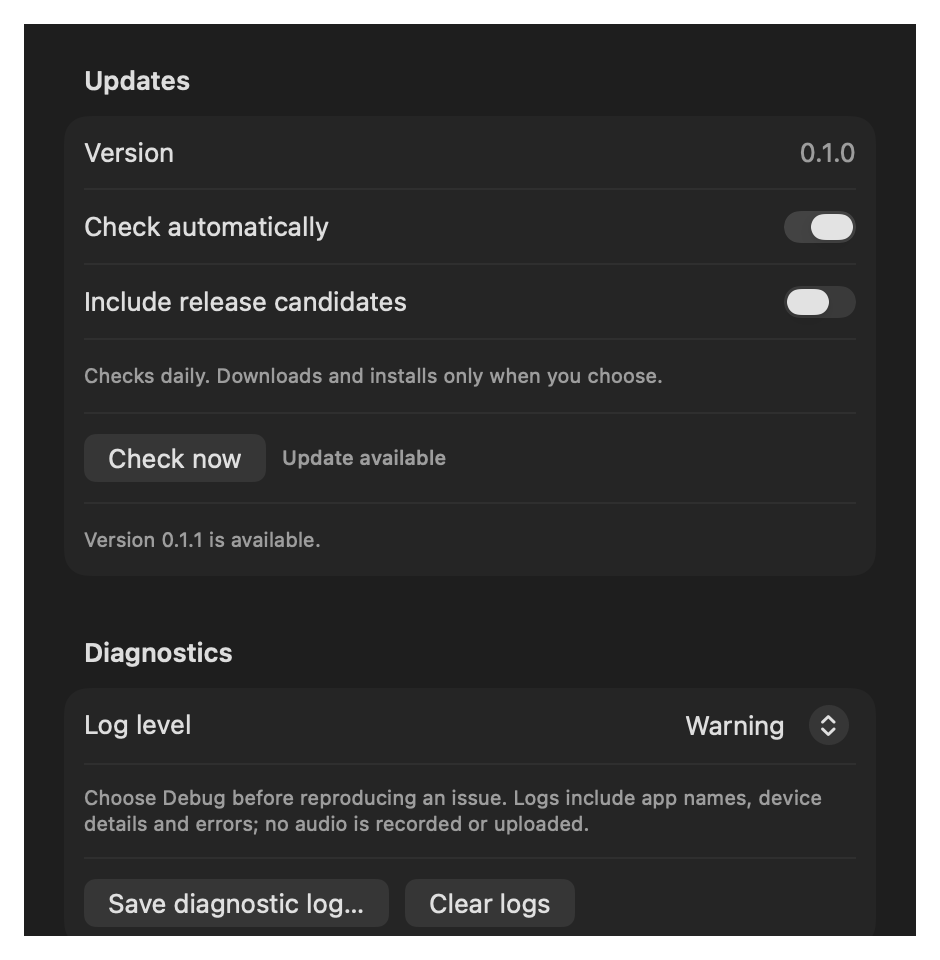
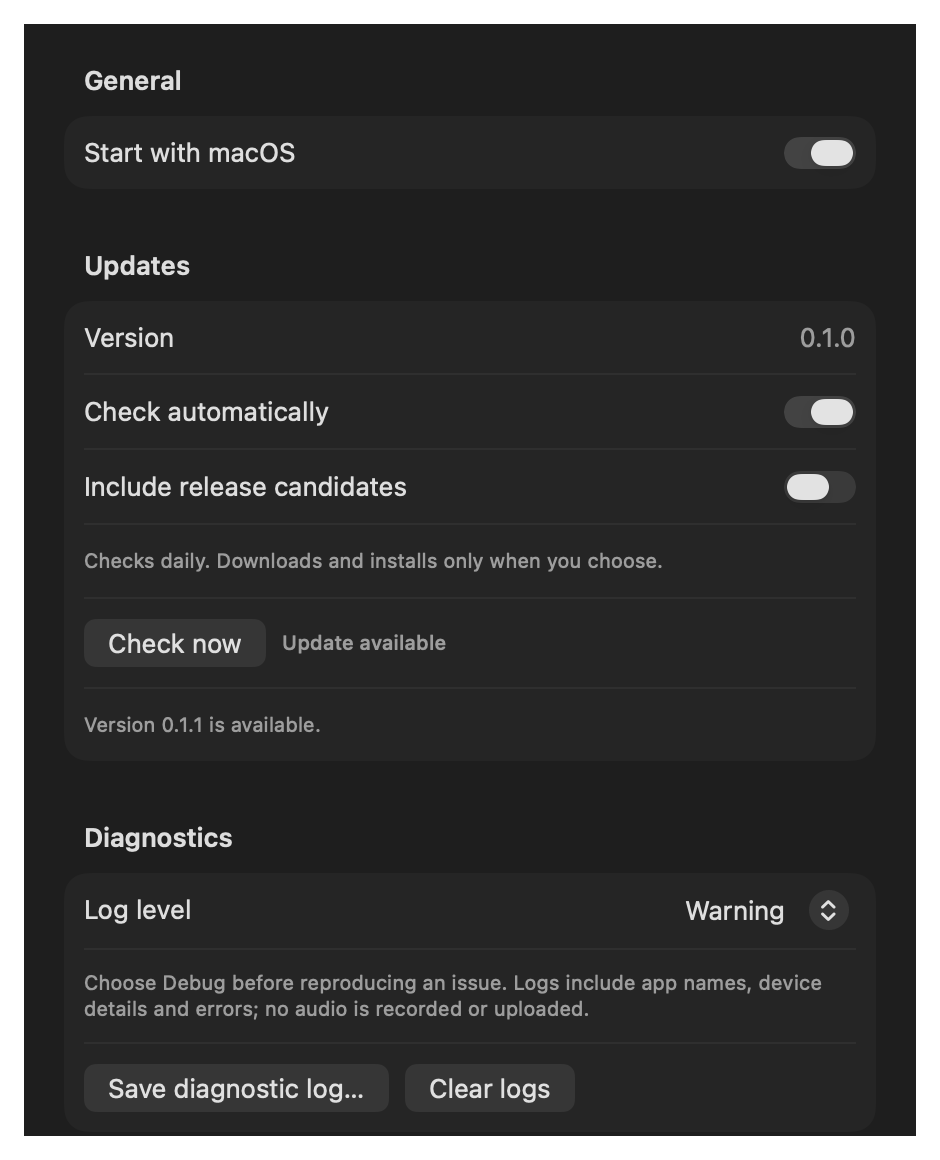
Add native start with macOS setting enabled by default

diff --git a/QEQ/App/Sources/SettingsView.swift b/QEQ/App/Sources/SettingsView.swift
@@ -5,20 +5,36 @@ import UniformTypeIdentifiers
 
 struct SettingsView: View {
     @ObservedObject var updates: UpdateStore
+    @ObservedObject var loginItem: LoginItemStore
     let diagnostics: () -> String
     let preview: Bool
     @State private var logLevel: LogLevel
     @State private var collecting = false
     @State private var logMessage = ""
 
-    init(updates: UpdateStore, preview: Bool = false, diagnostics: @escaping () -> String) {
+    init(updates: UpdateStore, loginItem: LoginItemStore, preview: Bool = false, diagnostics: @escaping () -> String) {
         self.updates = updates
+        self.loginItem = loginItem
         self.preview = preview
         self.diagnostics = diagnostics
         _logLevel = State(initialValue: preview ? .warning : AppLog.shared.level)
     }
     var body: some View {
         Form {
+            Section("General") {
+                Toggle(
+                    "Start with macOS",
+                    isOn: Binding(
+                        get: { loginItem.enabled }, set: { loginItem.setEnabled($0) }))
+                if loginItem.requiresApproval {
+                    Text("Allow QEQ in Login Items to start automatically.")
+                        .font(.caption).foregroundStyle(.secondary)
+                    Button("Open Login Items…") { loginItem.openSystemSettings() }
+                }
+                if let error = loginItem.error {
+                    Text(error).font(.caption).foregroundStyle(.secondary)
+                }
+            }
             Section("Updates") {
                 LabeledContent("Version", value: updates.currentVersion)
                 Toggle(
@@ -79,7 +95,11 @@ struct SettingsView: View {
                     Text(logMessage).font(.caption).foregroundStyle(.secondary).textSelection(.enabled)
                 }
             }
-        }.formStyle(.grouped).padding(12).frame(width: 470, height: 480)
+        }.formStyle(.grouped).padding(12).frame(width: 470, height: 580)
+            .onAppear { loginItem.refresh() }
+            .onReceive(NotificationCenter.default.publisher(for: NSApplication.didBecomeActiveNotification)) { _ in
+                loginItem.refresh()
+            }
     }
     private func collect() {
         guard !preview else { return }
@@ -87,7 +107,7 @@ struct SettingsView: View {
         logMessage = ""
         let snapshot =
             diagnostics()
-            + "\nUpdates: automatic=\(updates.automatic), includeRC=\(updates.includeRC)\nLog level: \(logLevel.rawValue)"
+            + "\nStart with macOS: \(loginItem.status.rawValue)\nUpdates: automatic=\(updates.automatic), includeRC=\(updates.includeRC)\nLog level: \(logLevel.rawValue)"
         Task { @MainActor in
             defer { collecting = false }
             do {
@@ -109,14 +129,14 @@ struct SettingsView: View {
 @MainActor
 final class SettingsWindowController {
     private let controller: NSWindowController
-    init(updates: UpdateStore, diagnostics: @escaping () -> String) {
+    init(updates: UpdateStore, loginItem: LoginItemStore, diagnostics: @escaping () -> String) {
         let window = NSWindow(
-            contentRect: NSRect(x: 0, y: 0, width: 470, height: 480),
+            contentRect: NSRect(x: 0, y: 0, width: 470, height: 580),
             styleMask: [.titled, .closable], backing: .buffered, defer: false)
         window.title = "Settings"
         window.isReleasedWhenClosed = false
         window.contentViewController = NSHostingController(
-            rootView: SettingsView(updates: updates, diagnostics: diagnostics))
+            rootView: SettingsView(updates: updates, loginItem: loginItem, diagnostics: diagnostics))
         window.center()
         controller = NSWindowController(window: window)
     }

diff --git a/QEQ/Sources/QEQAppSupport/LoginItemStore.swift b/QEQ/Sources/QEQAppSupport/LoginItemStore.swift
@@ -1,0 +1,61 @@
+import Combine
+import Foundation
+import ServiceManagement
+
+/// macOS owns the actual state. Apply the default once, never overriding a later
+/// change made in QEQ or System Settings.
+@MainActor
+public final class LoginItemStore: ObservableObject {
+    @Published public private(set) var status: SMAppService.Status
+    @Published public private(set) var error: String?
+    public var enabled: Bool { status == .enabled || status == .requiresApproval }
+    public var requiresApproval: Bool { status == .requiresApproval }
+    private let defaults: UserDefaults?
+    private let readStatus: () -> SMAppService.Status
+    private let register: () throws -> Void
+    private let unregister: () throws -> Void
+    private static let initializedKey = "loginItem.initialized"
+
+    public init(
+        defaults: UserDefaults? = .standard,
+        readStatus: @escaping () -> SMAppService.Status = { SMAppService.mainApp.status },
+        register: @escaping () throws -> Void = { try SMAppService.mainApp.register() },
+        unregister: @escaping () throws -> Void = { try SMAppService.mainApp.unregister() }
+    ) {
+        self.defaults = defaults
+        self.readStatus = readStatus
+        self.register = register
+        self.unregister = unregister
+        status = readStatus()
+    }
+
+    public static func preview() -> LoginItemStore {
+        LoginItemStore(defaults: nil, readStatus: { .enabled }, register: {}, unregister: {})
+    }
+
+    public func start() {
+        refresh()
+        guard let defaults, !defaults.bool(forKey: Self.initializedKey) else { return }
+        // Mark before attempting registration so failures/denials do not prompt
+        // again on every launch. The toggle allows an explicit retry.
+        defaults.set(true, forKey: Self.initializedKey)
+        if status == .notRegistered { setEnabled(true) }
+    }
+
+    public func refresh() { status = readStatus() }
+
+    public func setEnabled(_ value: Bool) {
+        defaults?.set(true, forKey: Self.initializedKey)
+        error = nil
+        refresh()
+        do {
+            if value && !enabled { try register() }
+            if !value && enabled { try unregister() }
+        } catch {
+            self.error = "Couldn’t change startup: \(error.localizedDescription)"
+        }
+        refresh()
+    }
+
+    public func openSystemSettings() { SMAppService.openSystemSettingsLoginItems() }
+}

diff --git a/QEQ/Tests/QEQTests/LoginItemTests.swift b/QEQ/Tests/QEQTests/LoginItemTests.swift
@@ -1,0 +1,60 @@
+import Foundation
+import ServiceManagement
+import Testing
+
+@testable import QEQAppSupport
+
+@Test @MainActor func loginDefaultAppliesOnceAndRespectsSystemChanges() {
+    let name = "QEQ.login.tests.\(UUID().uuidString)"
+    let defaults = UserDefaults(suiteName: name)!
+    defer { defaults.removePersistentDomain(forName: name) }
+    var status = SMAppService.Status.notRegistered
+    var registrations = 0
+    let store = LoginItemStore(
+        defaults: defaults, readStatus: { status },
+        register: {
+            registrations += 1
+            status = .enabled
+        },
+        unregister: { status = .notRegistered })
+    store.start()
+    #expect(store.enabled && registrations == 1)
+    store.setEnabled(false)
+    store.start()
+    #expect(!store.enabled && registrations == 1)
+    store.setEnabled(true)
+    #expect(store.enabled && registrations == 2)
+    // A user disables it externally; relaunch must not re-register it.
+    status = .notRegistered
+    let relaunched = LoginItemStore(
+        defaults: defaults, readStatus: { status },
+        register: { registrations += 1 }, unregister: {})
+    relaunched.start()
+    #expect(!relaunched.enabled && registrations == 2)
+}
+
+@Test @MainActor func loginApprovalAndFailureReflectActualSystemState() {
+    let name = "QEQ.login.tests.\(UUID().uuidString)"
+    let defaults = UserDefaults(suiteName: name)!
+    defer { defaults.removePersistentDomain(forName: name) }
+    var status = SMAppService.Status.requiresApproval
+    var attempts = 0
+    let store = LoginItemStore(
+        defaults: defaults, readStatus: { status },
+        register: {
+            attempts += 1
+            throw CocoaError(.fileWriteNoPermission)
+        },
+        unregister: { status = .notRegistered })
+    store.start()
+    #expect(store.enabled && store.requiresApproval && attempts == 0)
+    store.setEnabled(false)
+    #expect(!store.enabled)
+    store.setEnabled(true)
+    #expect(!store.enabled && store.error != nil && attempts == 1)
+    store.start()
+    #expect(attempts == 1)
+    status = .enabled
+    store.refresh()
+    #expect(store.enabled && !store.requiresApproval)
+}

diff --git a/QEQ/App/Sources/ScreenshotRenderer.swift b/QEQ/App/Sources/ScreenshotRenderer.swift
@@ -165,9 +165,9 @@ struct ScreenshotRenderer {
     }
     private static func renderSettings(to directory: URL, appearance: NSAppearance?, updates: UpdateStore) throws {
         let host = NSHostingController(
-            rootView: SettingsView(updates: updates, preview: true) { "Fixture diagnostics" })
+            rootView: SettingsView(updates: updates, loginItem: .preview(), preview: true) { "Fixture diagnostics" })
         let window = NSWindow(
-            contentRect: NSRect(x: -8000, y: 0, width: 470, height: 480),
+            contentRect: NSRect(x: -8000, y: 0, width: 470, height: 580),
             styleMask: .borderless, backing: .buffered, defer: false)
         window.appearance = appearance
         window.contentViewController = host
@@ -180,14 +180,14 @@ struct ScreenshotRenderer {
             CATransaction.flush()
         }
         let bitmap = NSBitmapImageRep(
-            bitmapDataPlanes: nil, pixelsWide: 940, pixelsHigh: 960,
+            bitmapDataPlanes: nil, pixelsWide: 940, pixelsHigh: 1160,
             bitsPerSample: 8, samplesPerPixel: 4, hasAlpha: true, isPlanar: false, colorSpaceName: .deviceRGB,
             bytesPerRow: 0, bitsPerPixel: 0)!
-        bitmap.size = NSSize(width: 470, height: 480)
+        bitmap.size = NSSize(width: 470, height: 580)
         host.view.cacheDisplay(in: host.view.bounds, to: bitmap)
         try bitmap.representation(using: .png, properties: [:])!.write(
             to: directory.appendingPathComponent("settings.png"))
-        print("settings: 470 × 480 pt")
+        print("settings: 470 × 580 pt")
     }
 
 }

diff --git a/QEQ/App/Sources/App.swift b/QEQ/App/Sources/App.swift
@@ -179,8 +179,9 @@ final class AppDelegate: NSObject, NSApplicationDelegate, NSPopoverDelegate {
         distribution: Bundle.main.object(forInfoDictionaryKey: "QEQBuildChannel") as? String == "release",
         defaults: CommandLine.arguments.contains("--render-screenshots") ? nil : .standard,
         logger: CommandLine.arguments.contains("--render-screenshots") ? nil : .shared)
+    private lazy var loginItem = LoginItemStore()
     private lazy var installer = UpdateInstaller(store: updates)
-    private lazy var settingsWindow = SettingsWindowController(updates: updates) { [weak self] in
+    private lazy var settingsWindow = SettingsWindowController(updates: updates, loginItem: loginItem) { [weak self] in
         self?.model.diagnosticReport ?? "QEQ is not running."
     }
     private var item: NSStatusItem!
@@ -213,6 +214,7 @@ final class AppDelegate: NSObject, NSApplicationDelegate, NSPopoverDelegate {
         AppLog.shared.write(.info, "QEQ started, version \(updates.currentVersion)")
         updates.installHandler = { [weak self] release in self?.installer.install(release) }
         updates.start()
+        loginItem.start()
         model.showSettings = { [weak self] in
             self?.popover.performClose(nil)
             self?.settingsWindow.show()

diff --git a/docs/DEVELOPMENT.md b/docs/DEVELOPMENT.md
@@ -135,6 +135,8 @@ See [profiling results and commands](PERFORMANCE.md) for Release microbenchmarks
 
 ## Updates and diagnostics
 
+Settings → General includes **Start with macOS**, using `SMAppService.mainApp` without a helper or additional privacy permissions. QEQ registers once on the first normal launch, then respects changes made in QEQ or macOS Login Items. Registration failures are shown in Settings and can be retried with the toggle; approval requests link directly to Login Items. Screenshot and diagnostic CLI modes never register a login item.
+
 The options menu → **Settings…** opens a native settings window. Release builds check QEQ's public GitHub releases at most once daily (also across restarts). Checks only change the **Update available** button; Sparkle is created after an explicit install click. Automatic downloads, unsolicited updater windows, and system-profile reporting are disabled. RCs require the **Include release candidates** toggle, even when the installed version is an RC. Manual checks and errors stay in Settings. Local development builds allow manual discovery but disable automatic checks and installation.
 
 Updates require both a published `appcast.xml` and the matching app ZIP. The checker compares version numbers numerically and never suggests older builds. Sparkle 2.9.3 verifies signed feeds and Ed25519 archive signatures before extraction, then handles installation and relaunch. QEQ keeps processing during download; normal termination releases audio routes before the updated app starts. Releases predating this mechanism need one manual installation to acquire it.

diff --git a/CHANGELOG.md b/CHANGELOG.md
@@ -2,6 +2,7 @@
 
 ## Unreleased
 
+- Add Start with macOS, enabled on first launch and configurable in Settings.
 - Add quiet update discovery, an Update available button, and explicit Sparkle installation with signed feeds and archives.
 - Add Settings for automatic checks, RC opt-in, log levels, and local diagnostic-log collection.
 
